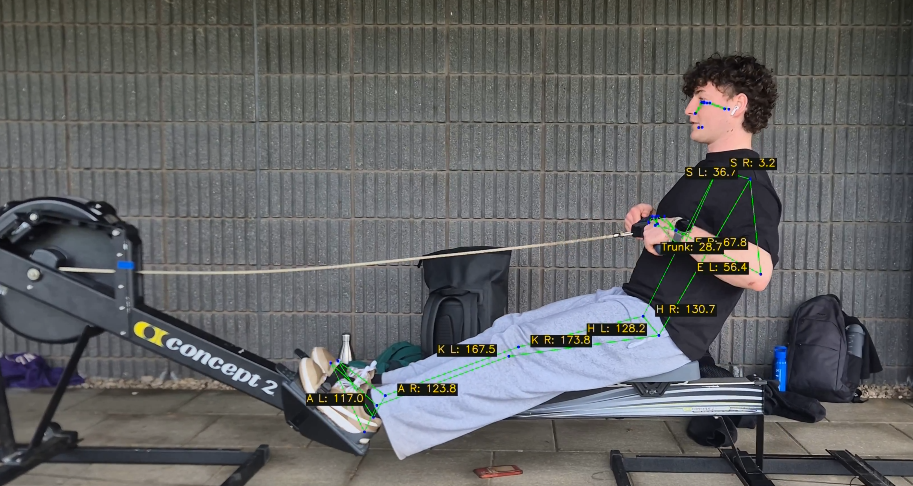
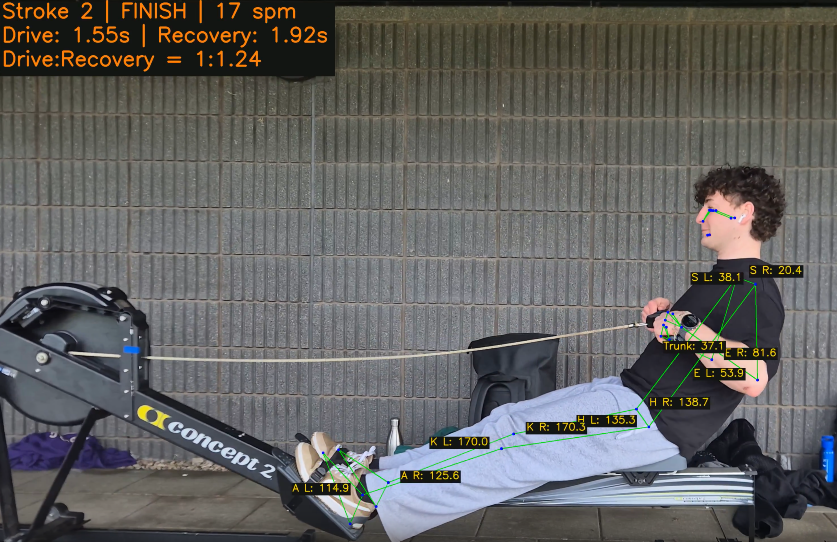
edited readme, adding new images and planned features

diff --git a/README.md b/README.md
@@ -44,7 +44,10 @@ the cells in order.
 
 ## Images
 
-Frame from a video showing pose estimation and key joint angle extraction
+Frame from a video showing pose estimation, key joint angle extraction and stroke phase extraction
+
+![at finish](image.png)
+![at catch](image-1.png)
 
 
 ## Methodology
@@ -113,12 +116,51 @@ Approach
 
 ## Planned Features
 
-- Sequence Analysis
-    - Hips opening early
-    - Not connecting with legs
-    - Arms coming in early
-
 - Form Analysis
-    - Not sitting up straight at catch
-    - Rowing short
-    - Leaning back too far/ too little at finish
+    - Catch
+    - Knee and hip angles
+        - Gives a picture of how compressed rower is at the catch
+        - Shins should be almost vertical
+
+    - Trunk lean
+        - Rough posture measurement
+        - Should not be collapsing at the catch
+
+- Finish
+    - Knee extension
+        - Are legs fully extended at catch, or is there length left on the table
+
+    - Trunk lean
+        - Are you leant too far back or not leant back enough?
+
+    - Elbow flexion
+        - Are you bringing your arms all the way into the body
+        - Are you finishing too high/low on the body
+
+- Sequencing
+    - Compare when legs, hips and elbows start moving 
+    - Check for:
+        - early body opening, 
+        - arms engaging too soon, 
+        - not connecting with legs
+
+
+- Stroke Data
+    - Drive : Recovery ratio should be 1 : 2 at lower rates
+
+
+- V1 - Rule Based
+    - Gather rules from dataset of professional rowers
+
+- V2 - Statistical
+    - Calculate mean sequencing, angles, etc over a period of strokes and compare to benchmark
+
+- V3 - ML Classifier
+    - Label strokes for different flaws (i.e., early body opening)
+    - Train XGBoost model
+
+- V4 - Deep Learning
+    - Feed time series data into Transformer
+
+- V5 - Input into LLM
+    - Provide LLM with data to provide natural language feedback
